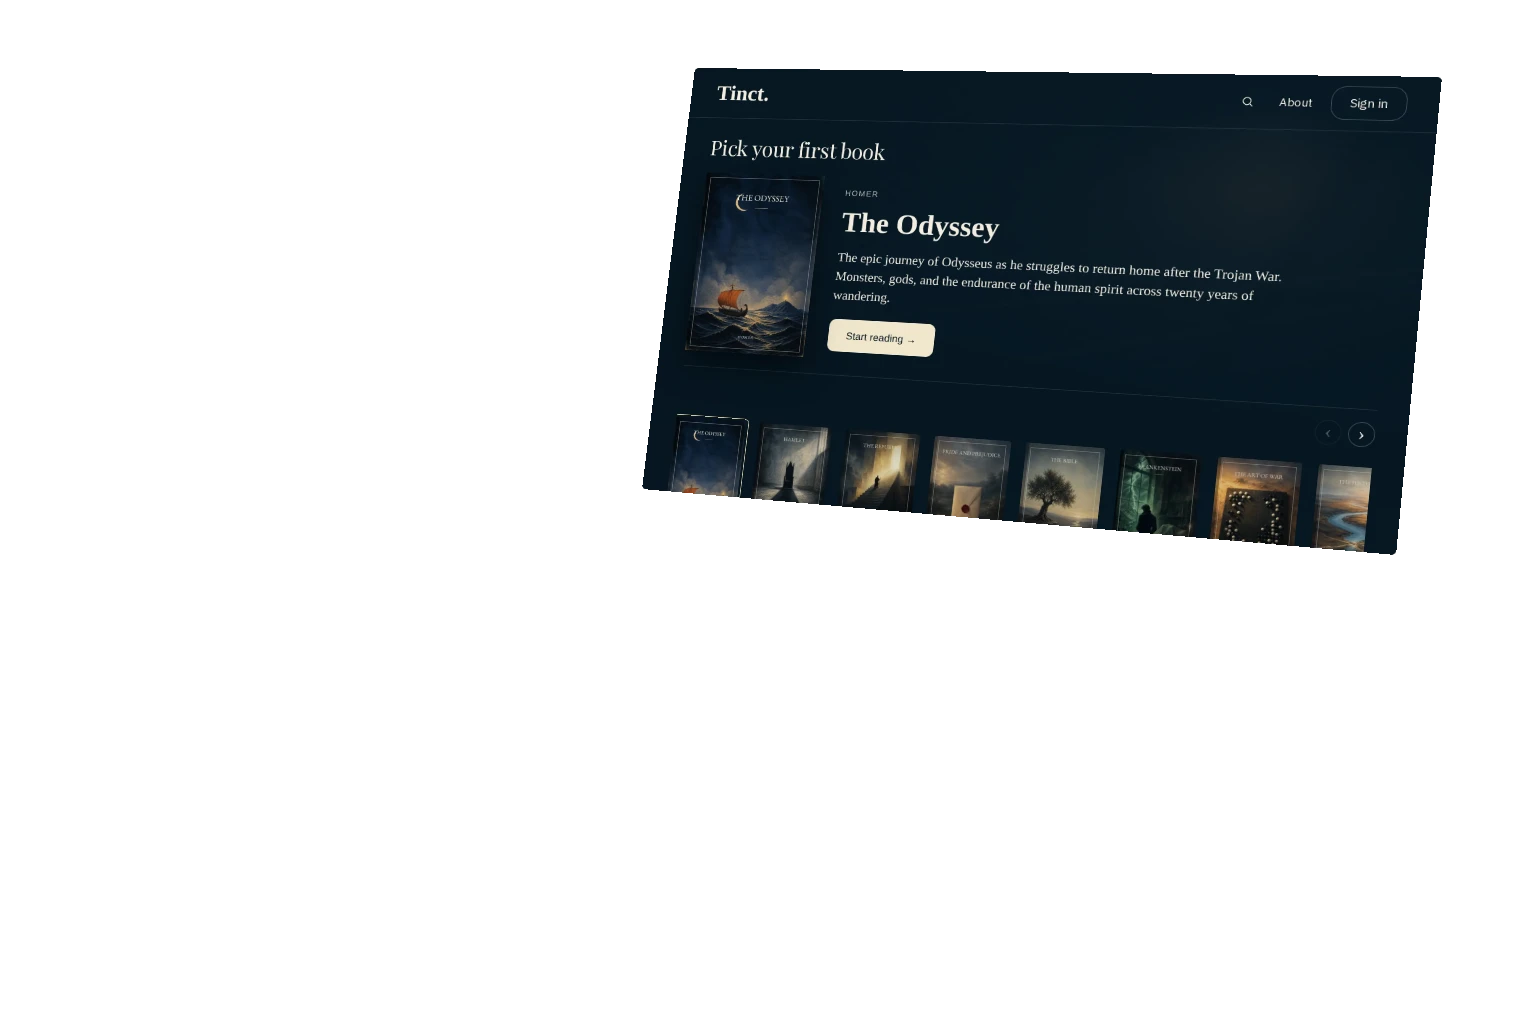
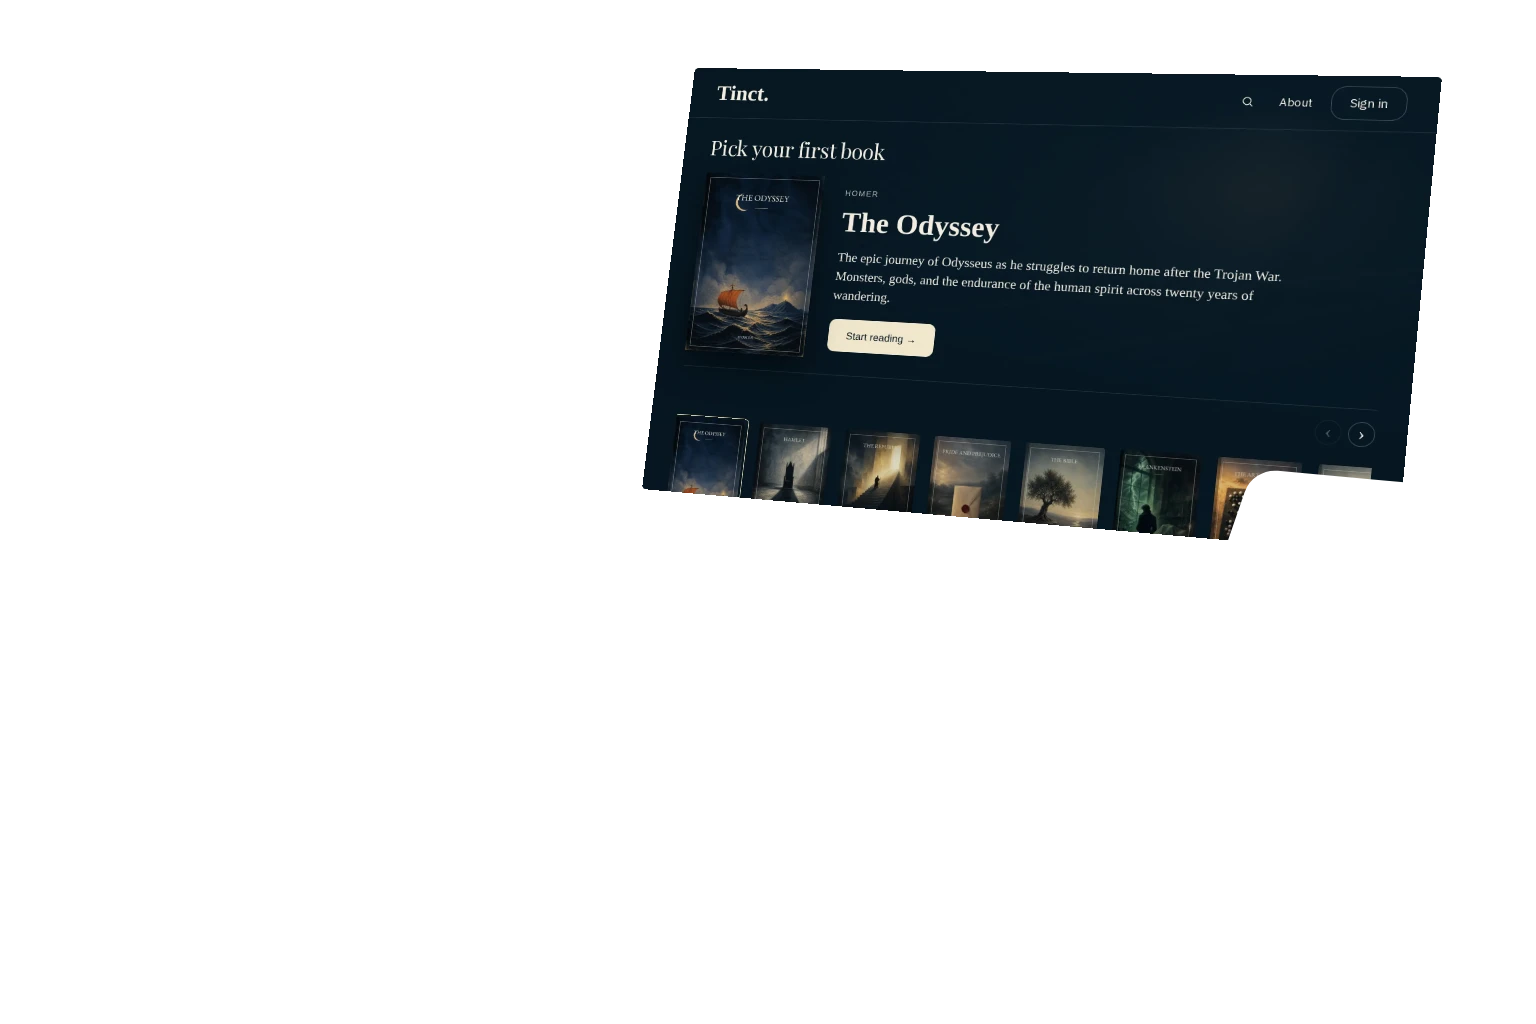
About illustration: give the phone its top left corner back
The phone leans over the laptop screen's bottom right corner, and every device
frame lives in the photo *under* the lit screen layers -- so the flat rectangle
projected onto the laptop screen painted the library across the phone's top
left corner and the corner read as transparent.

render-about-reveal-screens.mjs now cuts the phone's body out of the laptop's
layer before encoding it: the phone's four screen corners, grown 9 px past the
black frame and rounded to match. The photo's repaint keeps a matching hole, so
the frame's own highlight survives instead of being flooded with screen navy.
Overshoot only exposes the photo's navy screen fill, which is the colour of the
library screen behind it; undershoot would have left a bright sliver of library
on the frame, so the cut errs outward.

screen-desktop-v1.webp 38 KB -> 36 KB. The e-reader and phone layers are
unchanged by this commit.

Claude-Session: https://claude.ai/code/session_01K5bL9oWzAagjTMExsyUADi

Changed region(s): [[0.7812, 0.4375, 0.9375, 0.5625]]

diff --git a/app/scripts/retouch-about-devices.py b/app/scripts/retouch-about-devices.py
@@ -90,8 +90,10 @@ def main():
     assert (w, h) == (1536, 1024), im.size
 
     # 1. The laptop screen's cream fill -> the library screen's navy.
+    # The phone's top left corner stands in front of this corner of the laptop screen; its black
+    # frame is part of the photo and has to survive, so it is a hole in the repaint.
     navy = Image.new('RGBA', (w, h), SCREEN_NAVY + (255,))
-    im = Image.composite(navy, im, mask((w, h), [(outset(SCREEN, 3), 255)], blur=1.2))
+    im = Image.composite(navy, im, mask((w, h), [(outset(SCREEN, 3), 255), (outset(PHONE_SCREEN, 6), 0)], blur=1.2))
 
     # 2. The laptop body, minus the screen, the phone and the e-reader, through the tone curve.
     body = mask((w, h), [(LAPTOP, 255), (EREADER, 0), (outset(SCREEN, 1), 0), (outset(PHONE_SCREEN, 4), 0)], blur=.8)
